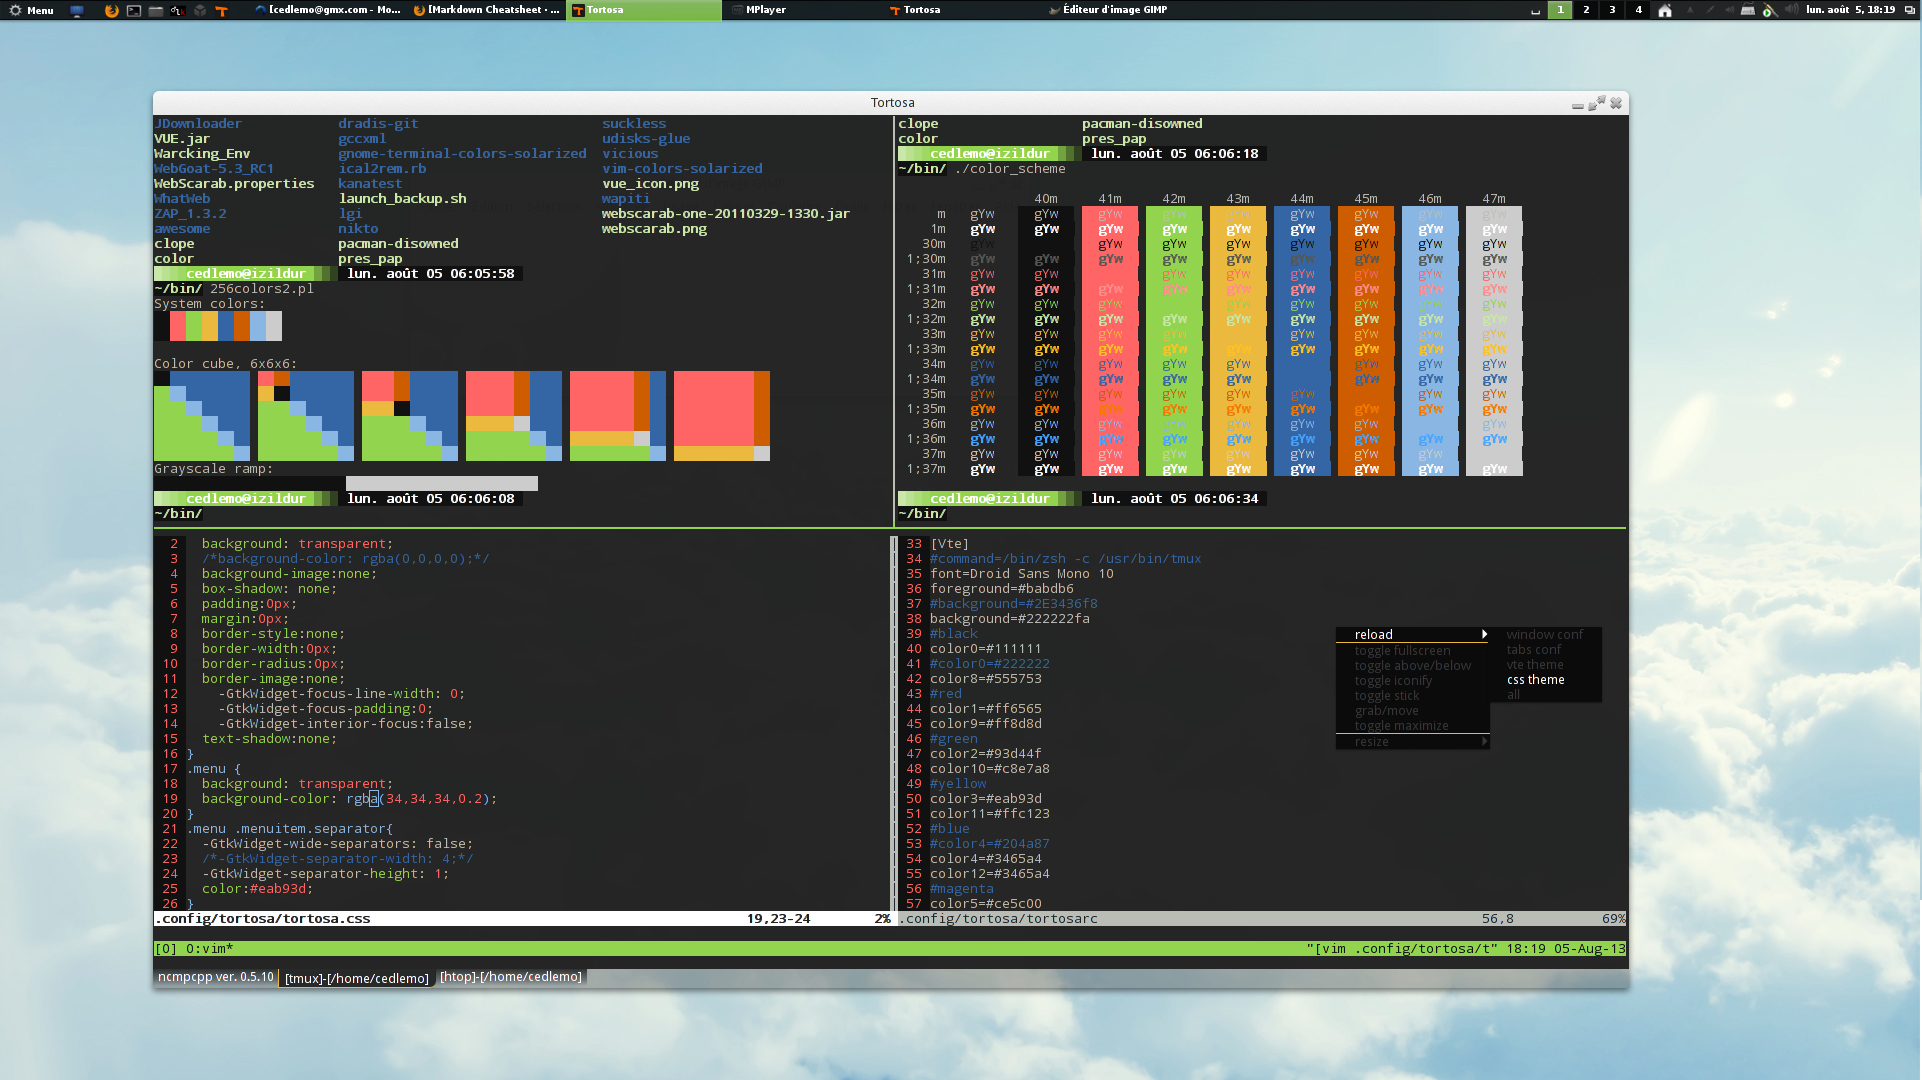
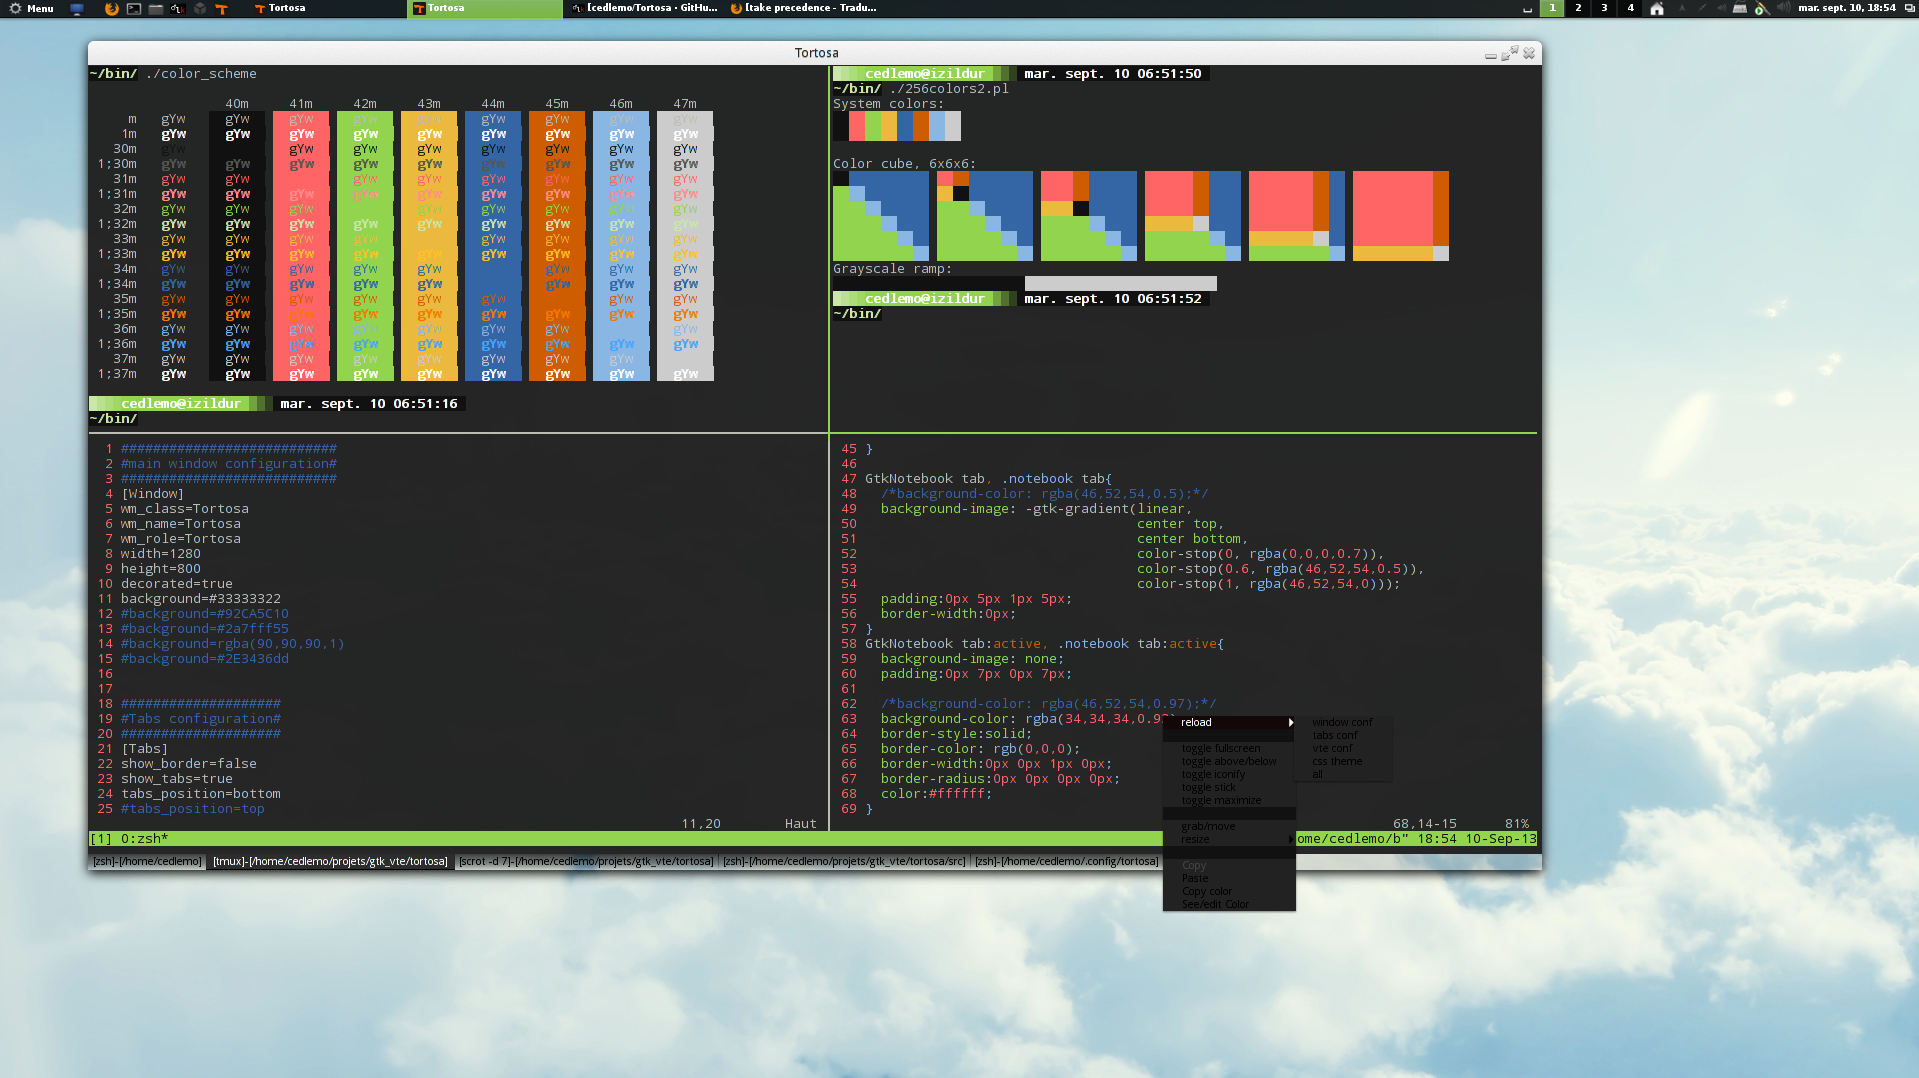
finish active tab color implementation, update overview image

diff --git a/src/tabs.c b/src/tabs.c
@@ -28,12 +28,12 @@ void close_tab(GtkWidget * vte, backbone_t * backbone)
 	}
 }
 
-static void remove_pango_active_tab_color(GtkWidget * vte, GtkNotebook * notebook)
+void remove_pango_active_tab_color(GtkWidget * vte, GtkNotebook * notebook)
 {
 	gtk_notebook_set_tab_label_text(GTK_NOTEBOOK(notebook), vte, gtk_notebook_get_tab_label_text(GTK_NOTEBOOK(notebook), vte));
 }
 
-static void add_pango_active_tab_color(GtkWidget * vte, GtkNotebook * notebook, GdkRGBA *color)
+void add_pango_active_tab_color(GtkWidget * vte, GtkNotebook * notebook, GdkRGBA *color)
 {
 		GtkWidget * tab_label = gtk_notebook_get_tab_label(GTK_NOTEBOOK(notebook), vte);
 		if (tab_label == NULL)
@@ -254,9 +254,21 @@ gboolean reload_tabs_configuration( backbone_t * backbone)
 		backbone->notebook.show_tabs = TRUE;
 		backbone->notebook.tabs_position = GTK_POS_TOP;
 		FREE_GSTRING(backbone->notebook.default_tab_name);
+		FREE_GSTRING(backbone->notebook.active_tab.color);
 		backbone->notebook.tab_name_max_len=0;
 		load_tabs_configuration(backbone);
 		apply_tabs_configuration(backbone);
+		
+		/*reload css in order to get active tab color*/
+		if ( backbone->css.file != NULL)
+		{
+		  //gtk_css_provider_load_from_file( GTK_CSS_PROVIDER (backbone->provider), backbone->css.file, NULL/*&error*/);
+		  load_css_regexes_match(backbone);
+		}
+
+		GtkWidget * current_vte = gtk_notebook_get_nth_page(GTK_NOTEBOOK(backbone->notebook.widget), gtk_notebook_get_current_page(GTK_NOTEBOOK(backbone->notebook.widget)));
+		remove_pango_active_tab_color(current_vte, GTK_NOTEBOOK(backbone->notebook.widget));
+		add_pango_active_tab_color(current_vte, GTK_NOTEBOOK(backbone->notebook.widget), &backbone->notebook.active_tab.rgba);
 		gtk_widget_show(backbone->notebook.widget);
 	}
 

diff --git a/src/gears.c b/src/gears.c
@@ -202,6 +202,8 @@ void load_tabs_configuration(backbone_t *backbone)
 		g_string_free(backbone->notebook.active_tab.color, TRUE);
 		backbone->notebook.active_tab.color = NULL;
 	}
+	else
+		extended_gdk_rgba_parse( &backbone->notebook.active_tab.rgba, backbone->notebook.active_tab.color->str);
 }
 
 void load_vte_configuration(backbone_t *backbone)
@@ -428,10 +430,10 @@ gboolean reload_tortosa_configuration(backbone_t * backbone)
 		backbone->notebook.show_tabs = TRUE;
 		backbone->notebook.tabs_position = GTK_POS_TOP;
 		FREE_GSTRING(backbone->notebook.default_tab_name);
+		FREE_GSTRING(backbone->notebook.active_tab.color);
 		backbone->notebook.tab_name_max_len=0;
 		load_tabs_configuration(backbone);
 		apply_tabs_configuration(backbone);
-		//gtk_widget_show(backbone->notebook.widget);
 		
 		/*vte configuration*/
 		backbone->vte.user_valid_palette=FALSE;
@@ -456,7 +458,6 @@ gboolean reload_tortosa_configuration(backbone_t * backbone)
 		{
 			GtkWidget *vte = gtk_notebook_get_nth_page(GTK_NOTEBOOK(backbone->notebook.widget), i);
 			apply_vte_configuration(backbone, vte);
-				//gtk_widget_show(GTK_WIDGET (vte));
 		}
 		
 		/*css configuration*/

diff --git a/src/window.c b/src/window.c
@@ -152,6 +152,10 @@ void reload_css_theme( backbone_t * backbone)
 	{
 		LOG_WARN("No css file to reload check your tortosarc file.\n");
 	}
+	GtkWidget * current_vte = gtk_notebook_get_nth_page(GTK_NOTEBOOK(backbone->notebook.widget), gtk_notebook_get_current_page(GTK_NOTEBOOK(backbone->notebook.widget)));
+	remove_pango_active_tab_color(current_vte, GTK_NOTEBOOK(backbone->notebook.widget));
+	add_pango_active_tab_color(current_vte, GTK_NOTEBOOK(backbone->notebook.widget), &backbone->notebook.active_tab.rgba);
+
 	gtk_widget_queue_draw (GTK_WIDGET (backbone->window.widget));
 }
 

diff --git a/src/tabs.h b/src/tabs.h
@@ -5,6 +5,8 @@
 #define TABS_H
 
 void close_tab(GtkWidget *, backbone_t *);
+void add_pango_active_tab_color(GtkWidget *, GtkNotebook *, GdkRGBA *);
+void remove_pango_active_tab_color(GtkWidget * , GtkNotebook * );
 void go_to_next_tab( backbone_t*);
 void go_to_prev_tab( backbone_t *);
 void on_switch_tabs_signal(GtkNotebook *, GtkWidget *, guint, backbone_t * backbone);

diff --git a/README.md b/README.md
@@ -139,6 +139,9 @@ GtkNotebook tab:active {
 	color:rgb(26,48,56);
 	...
 }
+
+Always remember that the css value take precedence on the value in the configuration file event if you only reload the tabs configuration.
+
 ```
 
 ```
